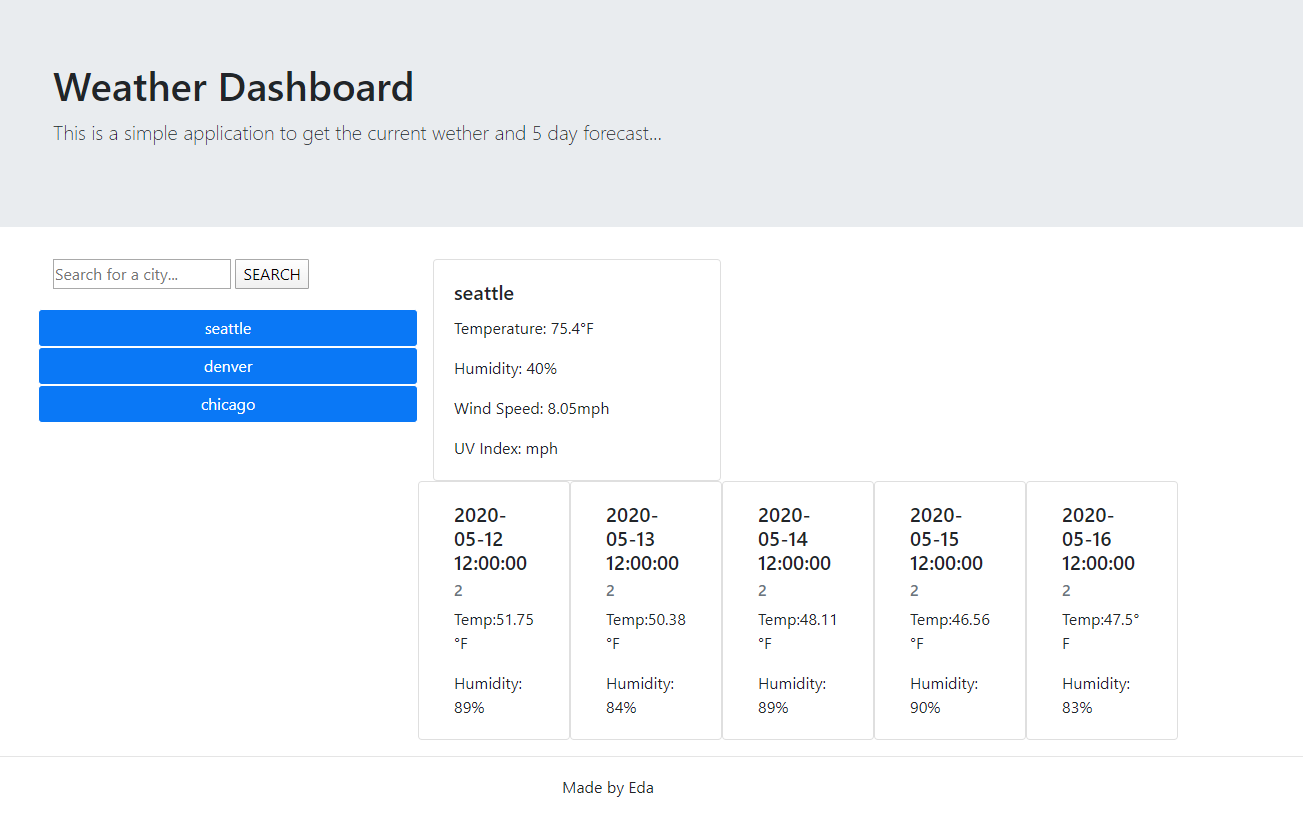
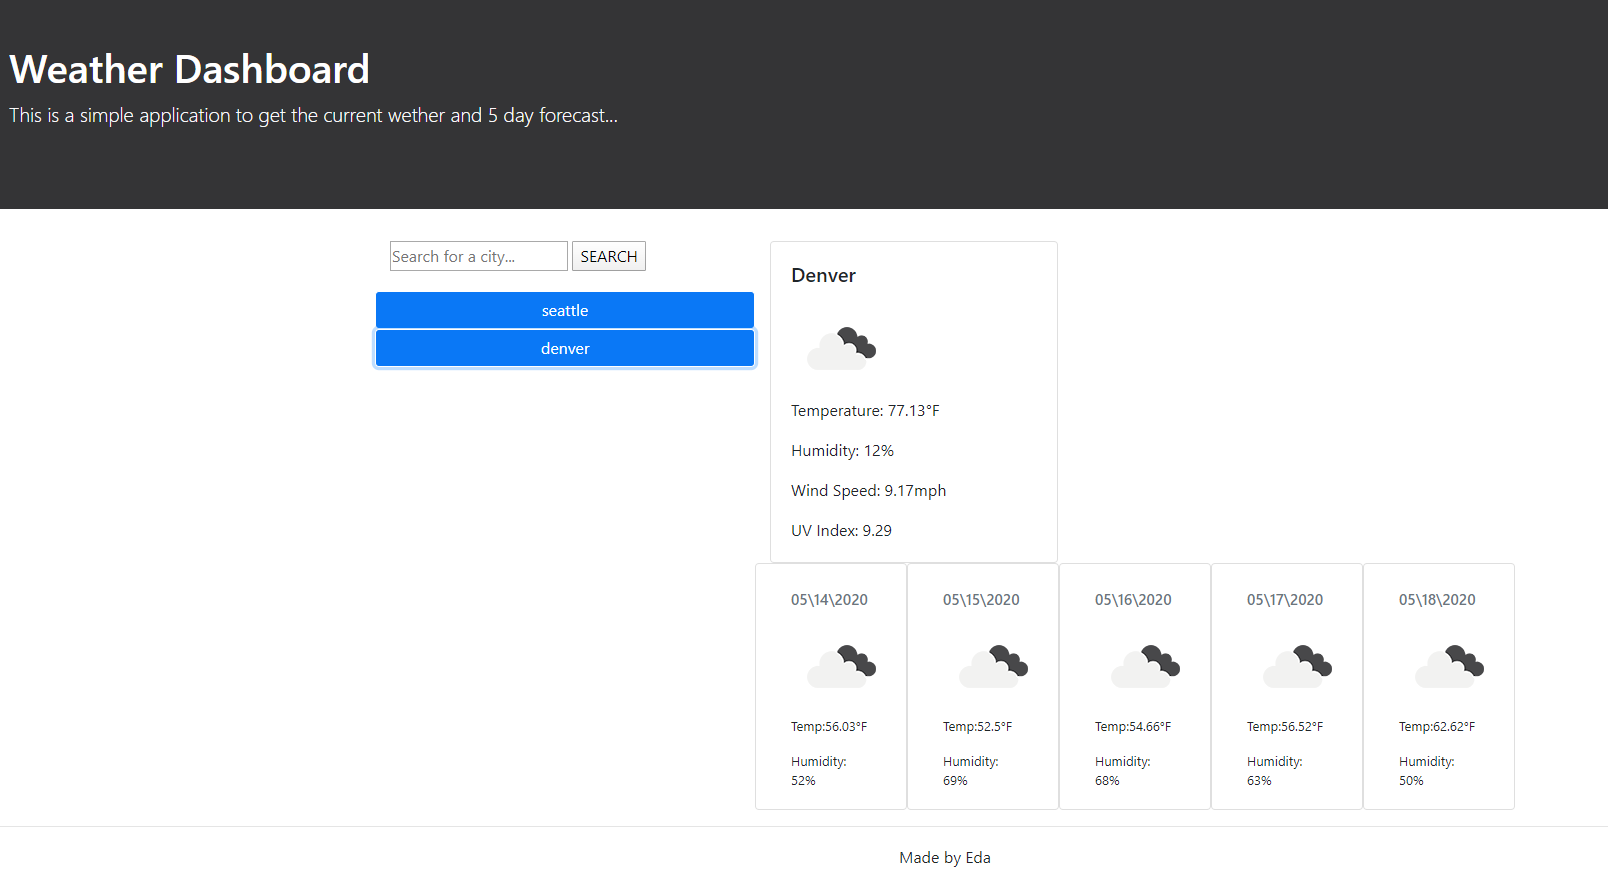
small updates

diff --git a/index.html b/index.html
@@ -14,7 +14,7 @@
 
     <body>
         <header>
-            <div class="jumbotron jumbotron-fluid">
+            <div class="jumbotron jumbotron-fluid container-fluid>
                 <div class="container">
                     <h1 class="display">Weather Dashboard</h1>
                     <p class="lead">This is a simple application to get the current wether and 5 day forecast...

diff --git a/Assets/css/style.css b/Assets/css/style.css
@@ -5,7 +5,13 @@ color:white;
 border:1px solid white;
 
 }
-
+h1, p {
+    text-align: center;
+}
+.jumbotron{
+    background-color:rgb(52, 52, 54);
+    color:white
+}
 #history{
     margin-top: 20px;
 

diff --git a/README.md b/README.md
@@ -7,6 +7,7 @@ Used the [OpenWeather API](https://openweathermap.org/api) to retrieve weather d
 Here is a screenshot from the application:
 ![weather dashboard screenshot](./Assets/images/screenshot.png)
 
+
 ## User Story:
 
 AS A traveler
@@ -30,8 +31,6 @@ THEN I am again presented with current and future conditions for that city
 WHEN I open the weather dashboard
 THEN I am presented with the last searched city forecast
 
-Here is a screenshot from the application:
-![weather dashboard screenshot](./Assets/images/screenshot.png)
 
 And a little demo: 
 ![weather dashboard demo](./Assets/06-server-side-apis-homework-demo.png)
